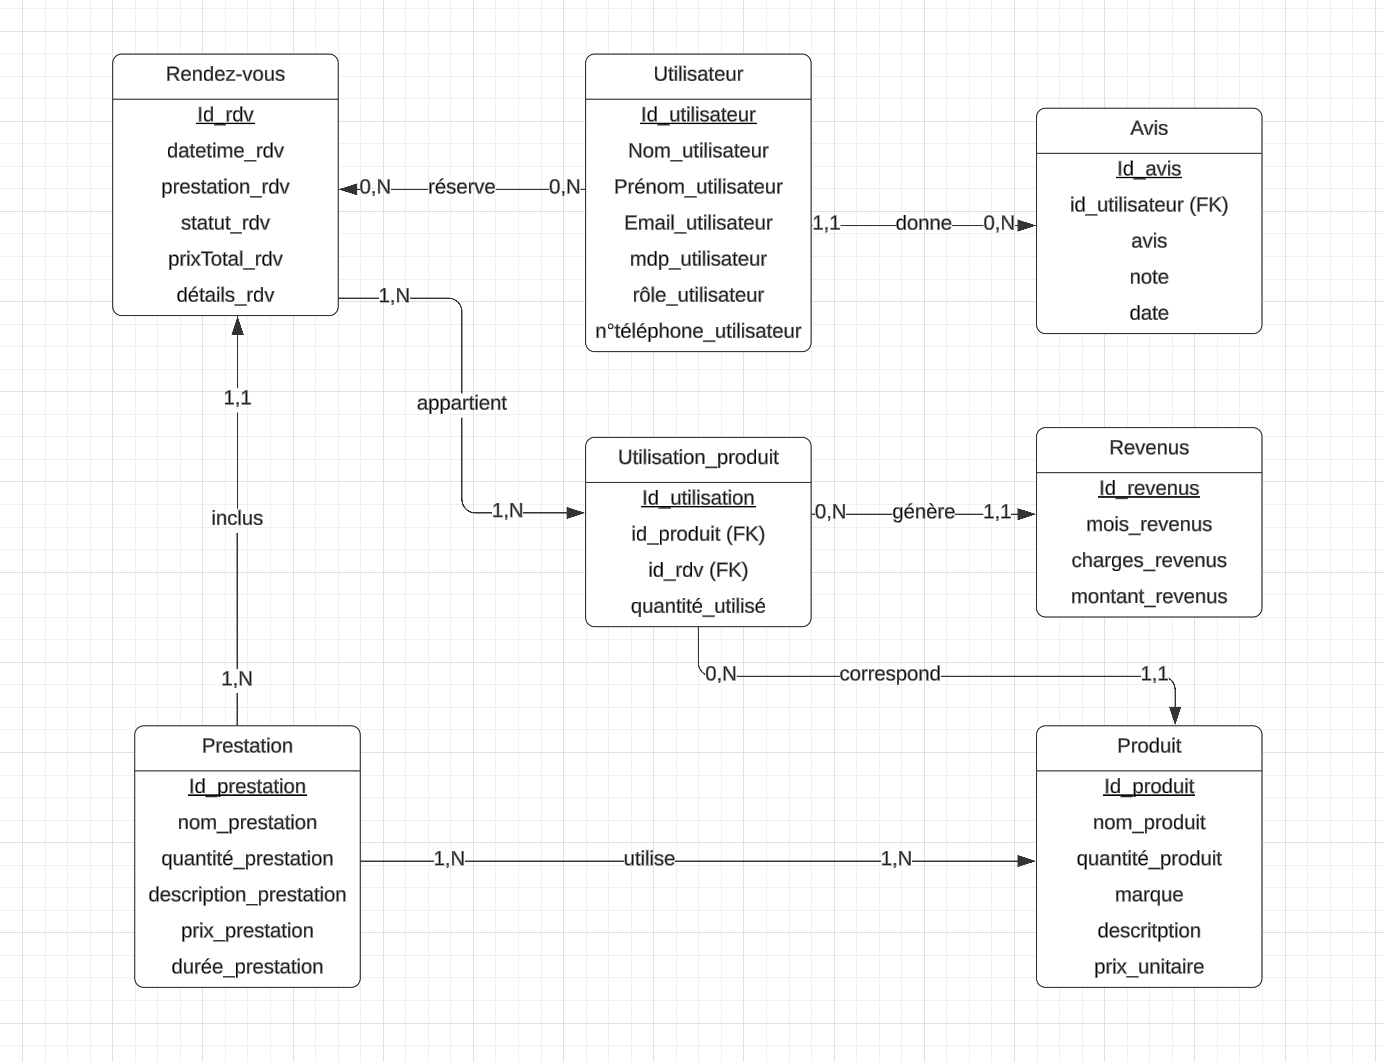
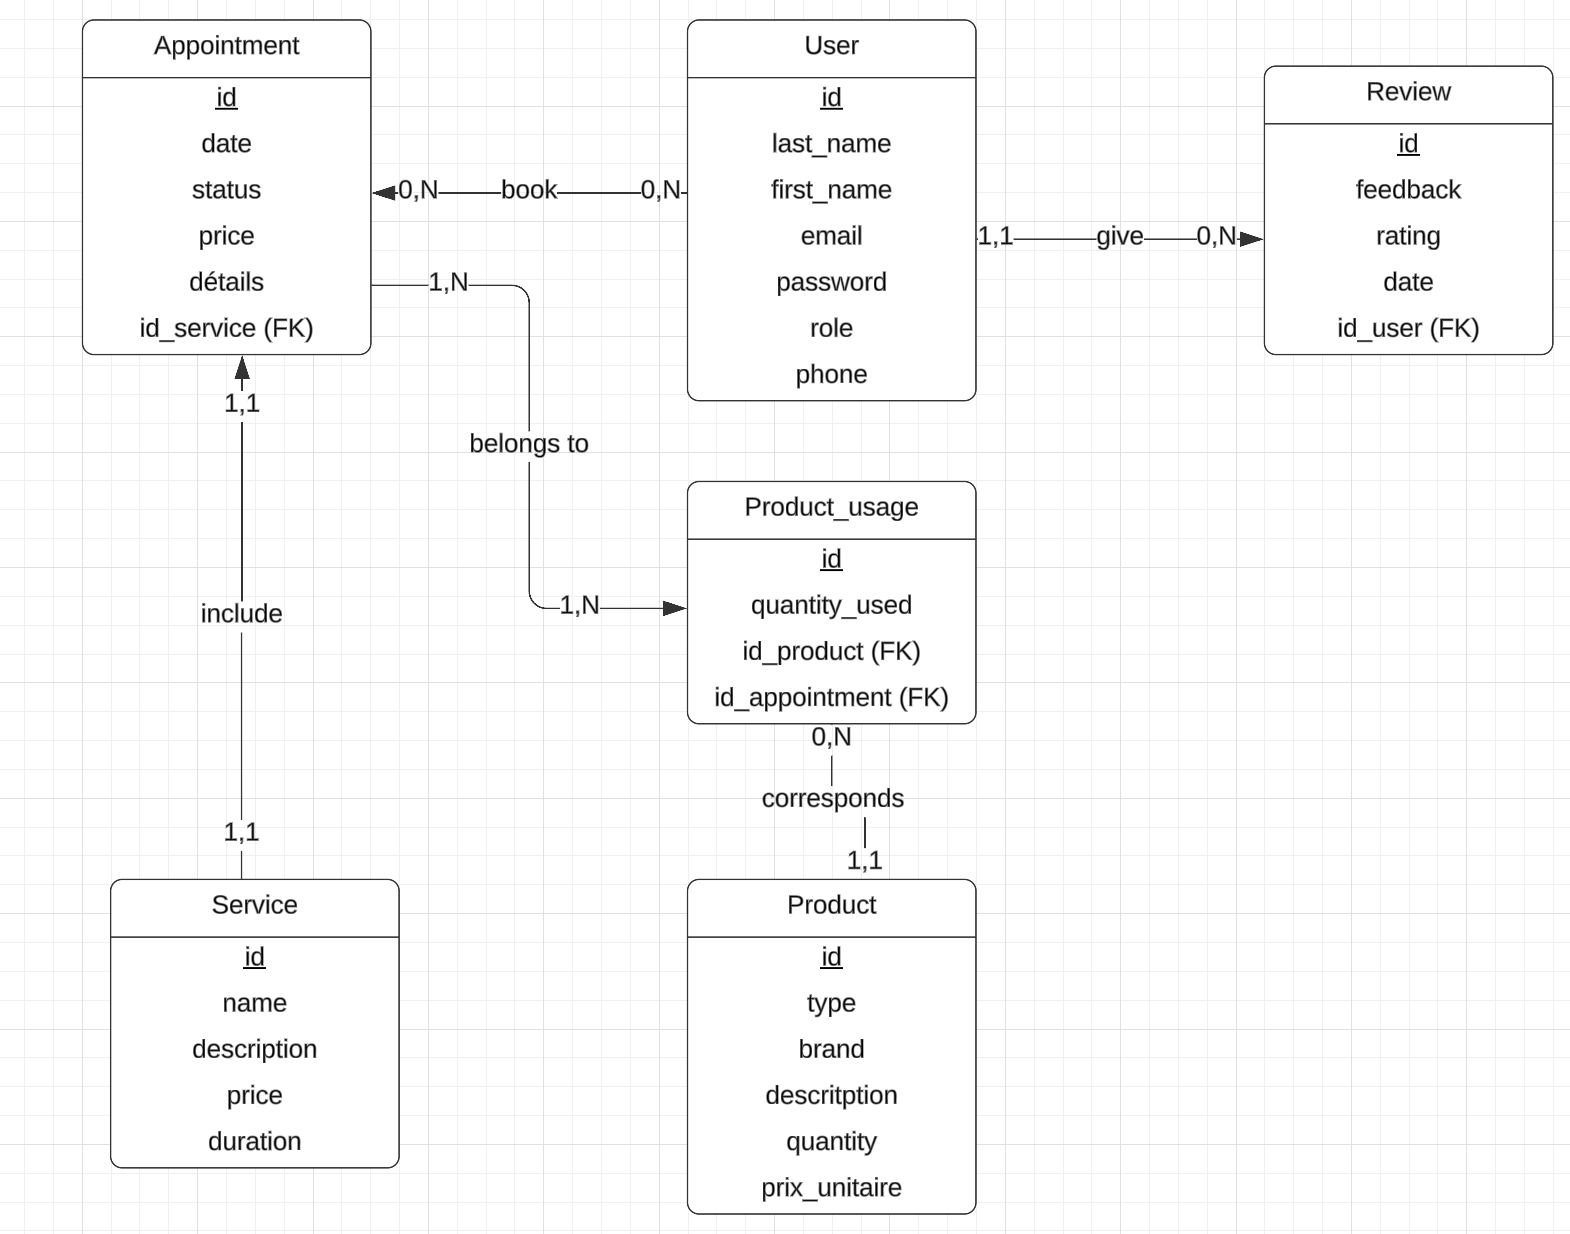
schéma + status(appointment)

diff --git a/migrations/Version20250221133543.php b/migrations/Version20250221133543.php
@@ -10,7 +10,7 @@ use Doctrine\Migrations\AbstractMigration;
 /**
  * Auto-generated Migration: Please modify to your needs!
  */
-final class Version20250221130758 extends AbstractMigration
+final class Version20250221133543 extends AbstractMigration
 {
     public function getDescription(): string
     {
@@ -20,14 +20,12 @@ final class Version20250221130758 extends AbstractMigration
     public function up(Schema $schema): void
     {
         // this up() migration is auto-generated, please modify it to your needs
-        $this->addSql('ALTER TABLE review CHANGE note rating INT NOT NULL');
-        $this->addSql('ALTER TABLE user ADD first_name VARCHAR(255) NOT NULL, ADD last_name VARCHAR(255) NOT NULL, DROP name, DROP surname');
+        $this->addSql('ALTER TABLE appointment ADD status INT NOT NULL');
     }
 
     public function down(Schema $schema): void
     {
         // this down() migration is auto-generated, please modify it to your needs
-        $this->addSql('ALTER TABLE user ADD name VARCHAR(255) NOT NULL, ADD surname VARCHAR(255) NOT NULL, DROP first_name, DROP last_name');
-        $this->addSql('ALTER TABLE review CHANGE rating note INT NOT NULL');
+        $this->addSql('ALTER TABLE appointment DROP status');
     }
 }

diff --git a/src/Entity/Appointment.php b/src/Entity/Appointment.php
@@ -41,6 +41,9 @@ class Appointment
     #[ORM\ManyToMany(targetEntity: ProductUsage::class, inversedBy: 'appointments')]
     private Collection $productusage;
 
+    #[ORM\Column]
+    private ?int $status = null;
+
     public function __construct()
     {
         $this->user = new ArrayCollection();
@@ -144,6 +147,18 @@ class Appointment
     public function removeProductusage(ProductUsage $productusage): static
     {
         $this->productusage->removeElement($productusage);
+
+        return $this;
+    }
+
+    public function getStatus(): ?int
+    {
+        return $this->status;
+    }
+
+    public function setStatus(int $status): static
+    {
+        $this->status = $status;
 
         return $this;
     }

diff --git a/README.md b/README.md
@@ -28,7 +28,7 @@
 
 
 ### Schéma de la base de données
-![Schéma](schema_BDD.png)
+![Schéma](Schema_BDD.png)
 - 1 table utilisateur (client et coiffeur)
 - 1 table rendez-vous (date, horaire, prestation)
 - 1 table prestation (nom, produit nécessaire, quantité nécessaire)
